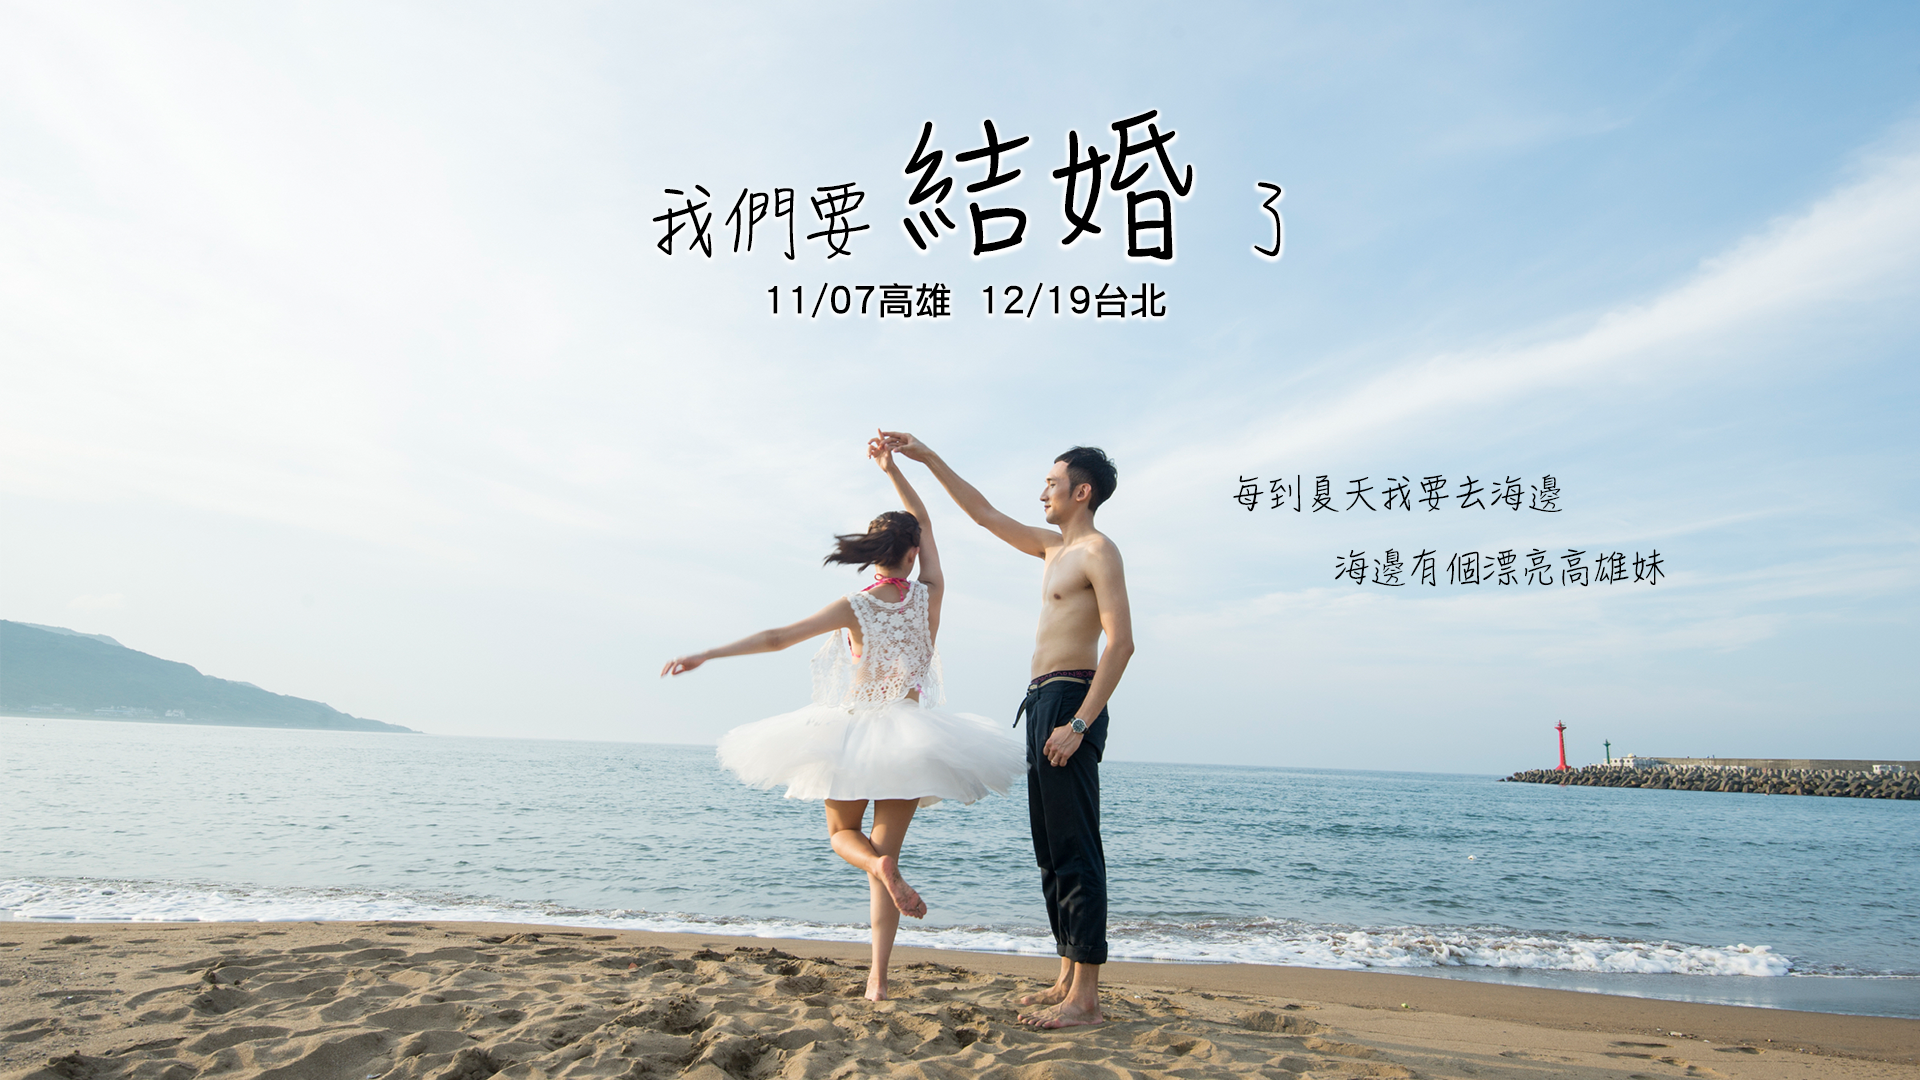
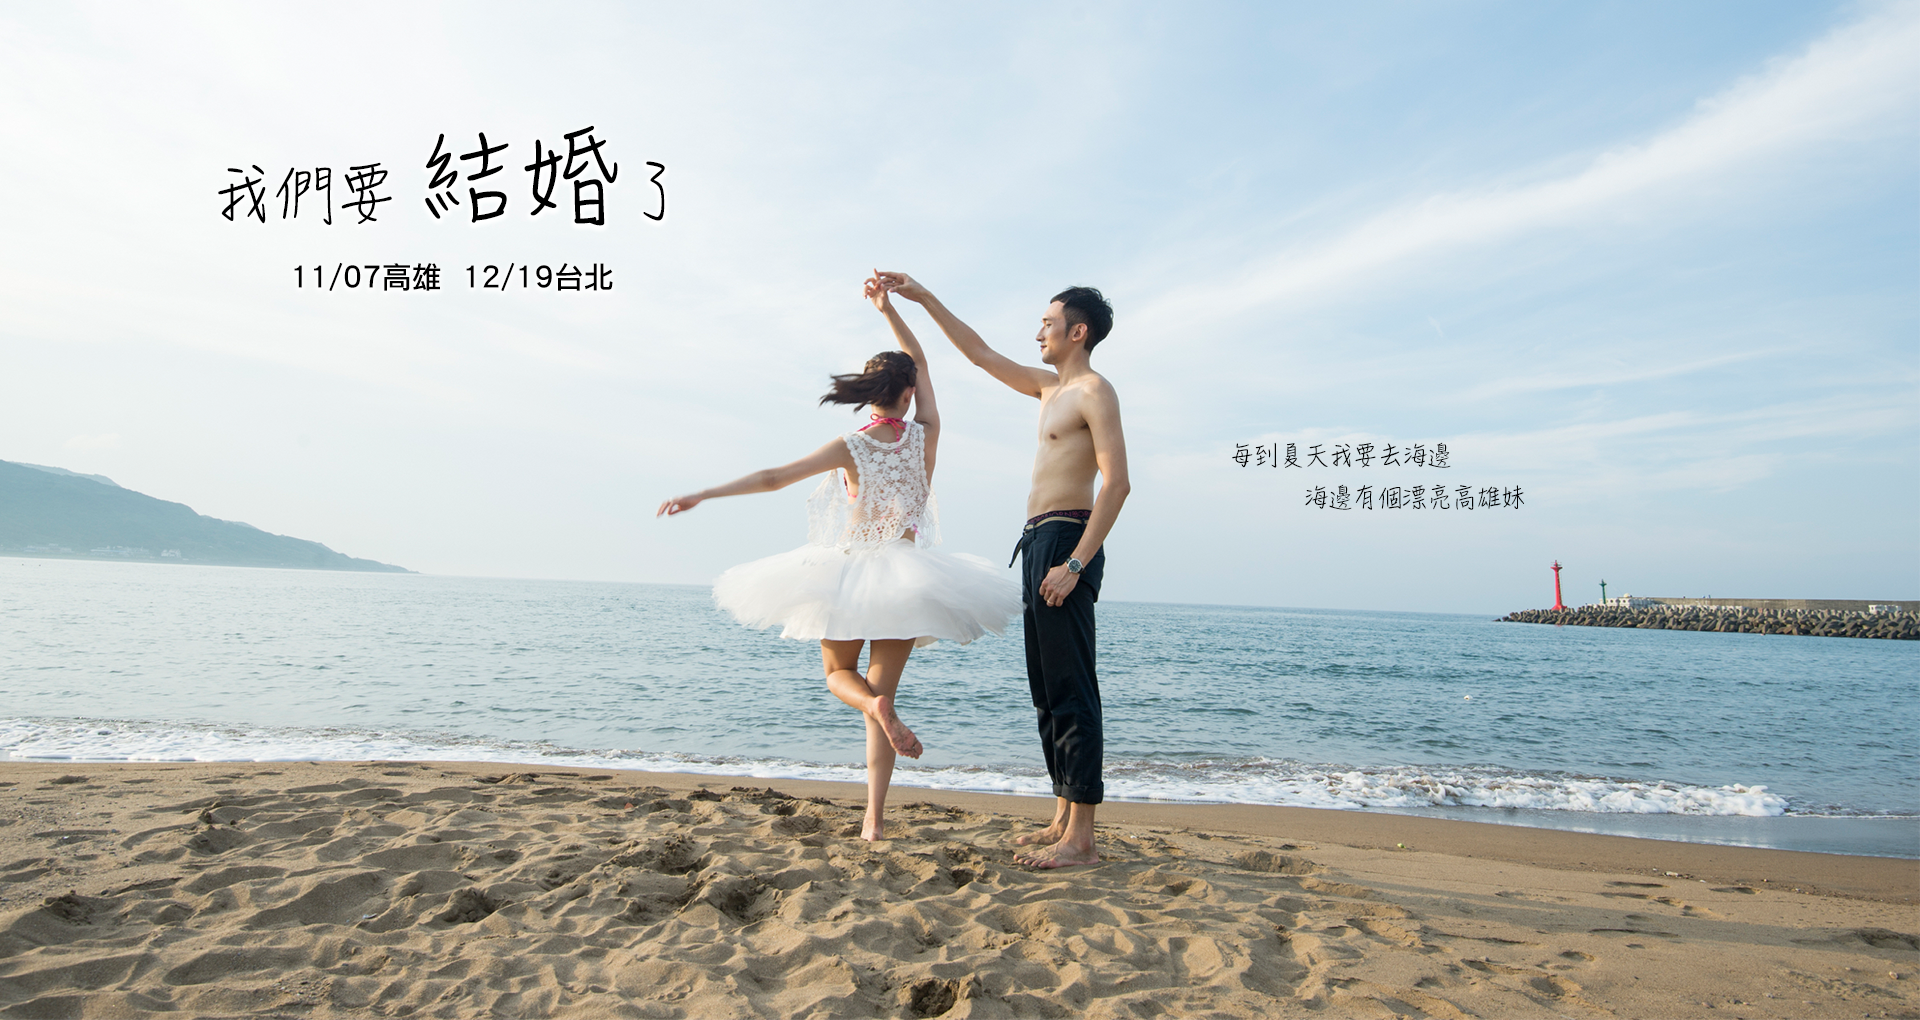
Change home images and code refactor

diff --git a/ui/js/main.js b/ui/js/main.js
@@ -10,16 +10,9 @@ $(function() {
 });
 var fadeTime = 800;
 $(aboutUsImg).on("mouseenter", function(){
-	//$('#aboutUsImgHover').stop().animate({opacity:1}, fadeTime);
     $('#aboutUsImg').stop().animate({opacity:0}, fadeTime);
 });
 $(aboutUsImg).on("mouseout", function(){
 	$('#aboutUsImg').stop().animate({opacity:1}, fadeTime);
-    //$('#aboutUsImgHover').stop().animate({opacity:0}, fadeTime);
-});
-$(aboutUsImgHover).on("mouseout", function(){
-	console.log("out");
-	$('#aboutUsImg').animate({opacity:1}, fadeTime);
-    $('#aboutUsImgHover').animate({opacity:0}, fadeTime);
 });
 $(aboutUsContainer).height($(aboutUsImg).height());

diff --git a/ui/css/style.css b/ui/css/style.css
@@ -139,7 +139,10 @@ p.copyright {
   padding-bottom: 50px;
   text-align: center;
   color: #f8f8f8;
-  background: url(../images/NTU/home.png) no-repeat center center;
+  /*background: url(../images/NTU/home.png) no-repeat center center;
+background: url(../images/Beach/home.png) no-repeat center center;
+  */
+  background: url(../images/Beach/home.png) no-repeat center center;
   background-size: cover;
   height: 100%; }
 
